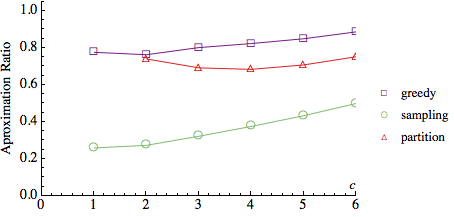
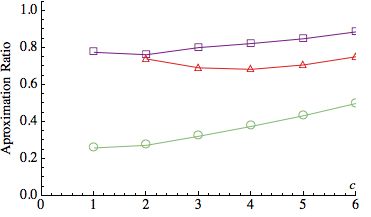
Congealing real results

diff --git a/3_2_Real_Results.tex b/3_2_Real_Results.tex
@@ -17,41 +17,52 @@ input edges (candidate recommendations); the remaining merchants (3, 4
 and 5) have on the order of $10^6$ vertices and $10^7$ input edges
 between them.  We estimated an upper bound on the optimum solution by
 taking the minimum of $|L|c/a$ and the number of vertices in $R$ of
-degree at least $a$. Figures~\ref{fig:real_a=1},~\ref{fig:real_a=2}
-and~\ref{fig:real_a=3} plot the average of the optimality percentage
-of the sampling, greedy and partition algorithms across all the
-merchants respectively. Note that we could only run the partition
-algorithm for the first two merchants due to memory constraints. \vs
+degree at least $a$. Figure~\ref{fig:real_combo} plots the average
+of the optimality percentage of the sampling, greedy and partition
+algorithms across all the merchants respectively. Note that we could
+only run the partition algorithm for the first two merchants due to memory constraints. \vs
 
-\begin{figure}[h]
-\centering
-\begin{minipage}[h]{0.48\textwidth}
-\centering
-\includegraphics[width=0.99\textwidth]{images/real_a=1_new.png}
+\begin{figure}
+\begin{tabular}{cc}
+  \includegraphics[width=40mm]{images/real_a=1_new.png} &   \includegraphics[width=40mm]{images/real_a=2_new.png} \\
+(a) a=1 & (b) a=2 \\[6pt]
+\multicolumn{2}{c}{\includegraphics[width=40mm]{images/real_a=3_new.png} }\\
+\multicolumn{2}{c}{(e) a=3}
+\end{tabular}
+\caption{Solution quality for the $(c, a)$-recommendation subgraph problem in retailer data}
+\label{fig:real_combo}
+\end{figure}
 
-\caption{Solution quality for the $(c, 1)$-recommendation subgraph problem in retailer data}
-\label{fig:real_a=1}
-\end{minipage}
 
-\hspace{0cm}
-\begin{minipage}[h]{0.48\textwidth}
-\centering
-\includegraphics[width=0.99\textwidth]{images/real_a=2_new.png}
-
-\caption{Solution quality for the $(c, 2)$-recommendation subgraph problem in retailer data}
-\label{fig:real_a=2}
-\end{minipage}
-
-\hspace{0cm}
-\begin{minipage}[h]{0.48\textwidth}
-\centering
-\includegraphics[width=0.99\textwidth]{images/real_a=3_new.png}
-
-\caption{Solution quality for the $(c, 3)$-recommendation subgraph problem in retailer data}
-\label{fig:real_a=3}
-\end{minipage}
-\vspace{-.3cm}
-\end{figure} \vs
+%\begin{figure}[h]
+%\centering
+%\begin{minipage}[h]{0.48\textwidth}
+%\centering
+%\includegraphics[width=0.99\textwidth]{images/real_a=1_new.png}
+%
+%\caption{Solution quality for the $(c, 1)$-recommendation subgraph problem in retailer data}
+%\label{fig:real_a=1}
+%\end{minipage}
+%
+%\hspace{0cm}
+%\begin{minipage}[h]{0.48\textwidth}
+%\centering
+%\includegraphics[width=0.99\textwidth]{images/real_a=2_new.png}
+%
+%\caption{Solution quality for the $(c, 2)$-recommendation subgraph problem in retailer data}
+%\label{fig:real_a=2}
+%\end{minipage}
+%
+%\hspace{0cm}
+%\begin{minipage}[h]{0.48\textwidth}
+%\centering
+%\includegraphics[width=0.99\textwidth]{images/real_a=3_new.png}
+%
+%\caption{Solution quality for the $(c, 3)$-recommendation subgraph problem in retailer data}
+%\label{fig:real_a=3}
+%\end{minipage}
+%\vspace{-.3cm}
+%\end{figure} \vs
 
 From these results, we can see that that greedy performs exceptionally
 well when $c$ gets even moderately large.  For the realistic value of
